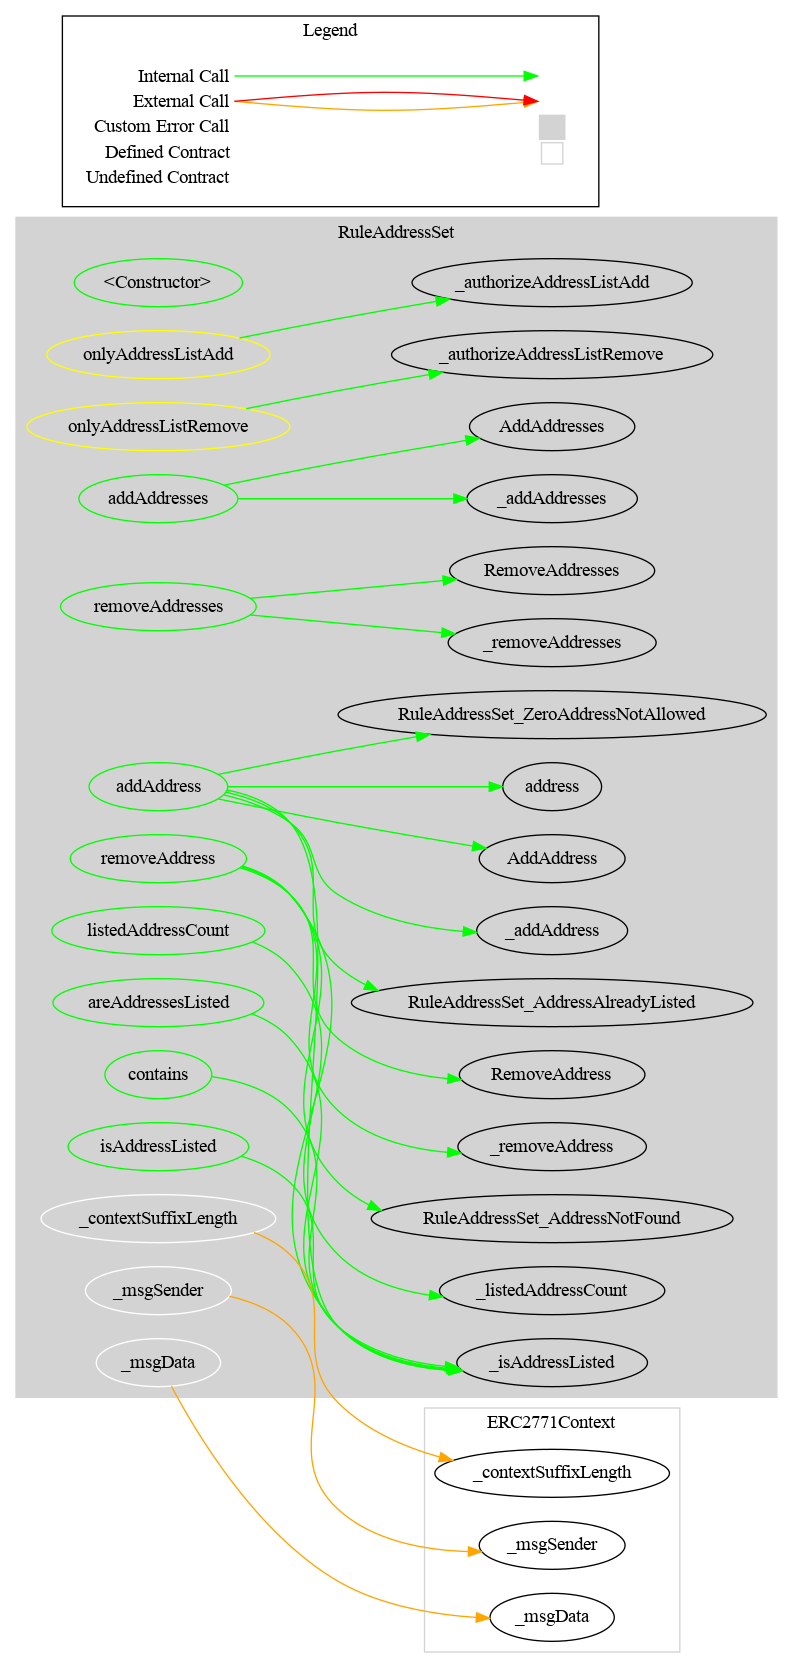
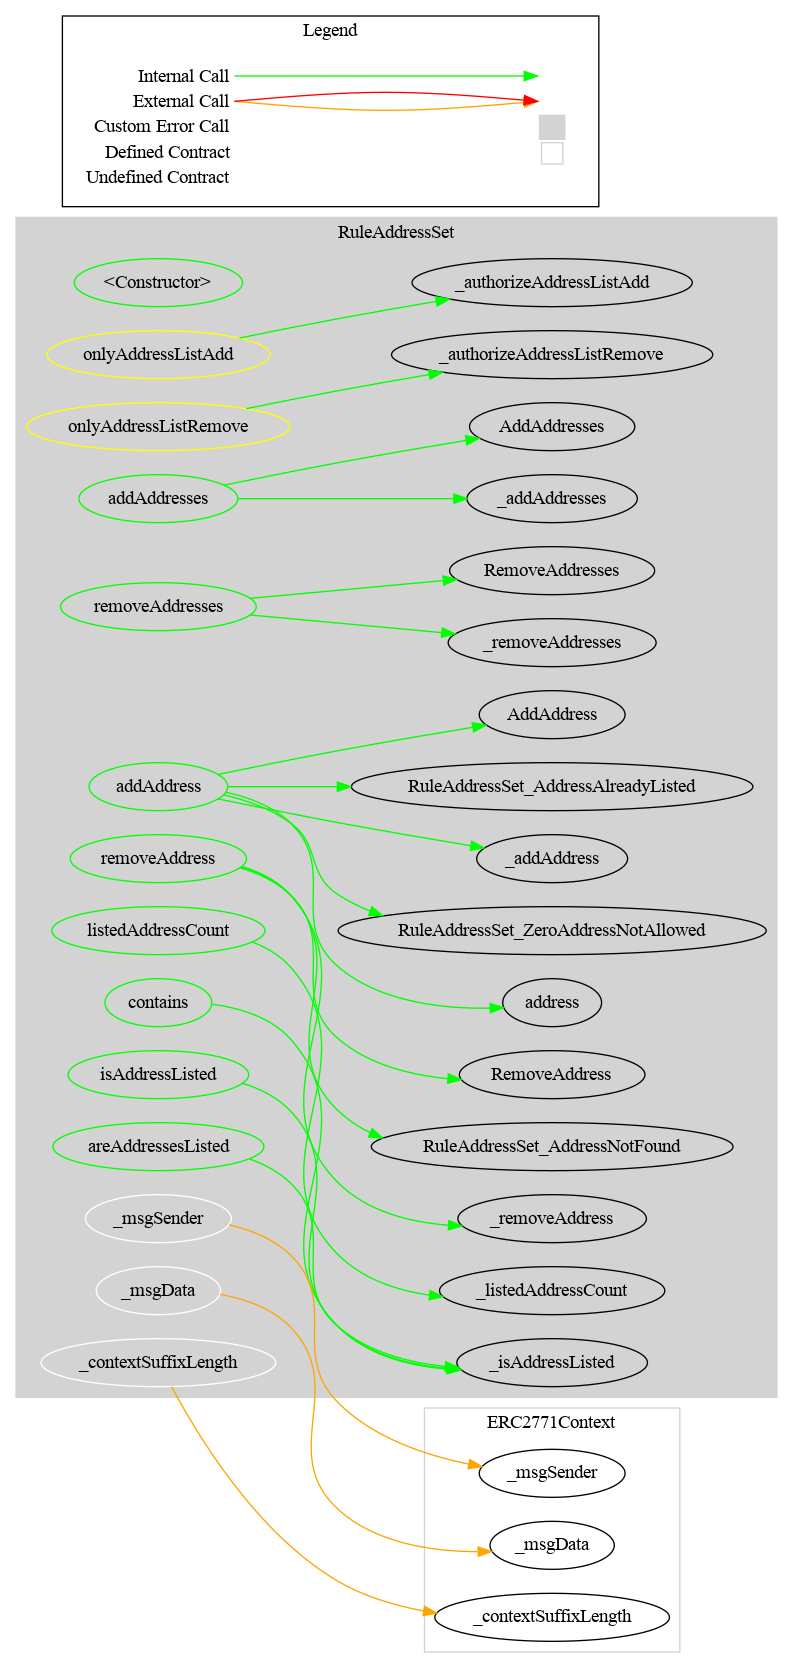
update surya doc

diff --git a/doc/surya/surya_report/surya_report_VirtualHookOverrideHarnesses.sol.md b/doc/surya/surya_report/surya_report_VirtualHookOverrideHarnesses.sol.md
@@ -1,0 +1,50 @@
+## Sūrya's Description Report
+
+### Files Description Table
+
+
+|  File Name  |  SHA-1 Hash  |
+|-------------|--------------|
+| ./mocks/harness/VirtualHookOverrideHarnesses.sol | 6854c56840f080b9c00452015062e74992314b8b |
+
+
+### Contracts Description Table
+
+
+|  Contract  |         Type        |       Bases      |                  |                 |
+|:----------:|:-------------------:|:----------------:|:----------------:|:---------------:|
+|     └      |  **Function Name**  |  **Visibility**  |  **Mutability**  |  **Modifiers**  |
+||||||
+| **ConditionalTransferLightCustomExecutorHarness** | Implementation | RuleConditionalTransferLight |||
+| └ | <Constructor> | Public ❗ | 🛑  | RuleConditionalTransferLight |
+| └ | _authorizeTransferExecution | Internal 🔒 |   | |
+| └ | approveTransfer | Public ❗ | 🛑  |NO❗ |
+| └ | transferred | Public ❗ | 🛑  |NO❗ |
+||||||
+| **MaxTotalSupplyCappedSetterHarness** | Implementation | RuleMaxTotalSupply |||
+| └ | <Constructor> | Public ❗ | 🛑  | RuleMaxTotalSupply |
+| └ | setMaxTotalSupply | Public ❗ | 🛑  |NO❗ |
+||||||
+| **IdentityRegistryPinnedHarness** | Implementation | RuleIdentityRegistry |||
+| └ | <Constructor> | Public ❗ | 🛑  | RuleIdentityRegistry |
+| └ | setIdentityRegistry | Public ❗ | 🛑  |NO❗ |
+||||||
+| **ERC2980SelfWhitelistBlockHarness** | Implementation | RuleERC2980 |||
+| └ | <Constructor> | Public ❗ | 🛑  | RuleERC2980 |
+| └ | addWhitelistAddress | Public ❗ | 🛑  |NO❗ |
+||||||
+| **BlacklistQuarantineHarness** | Implementation | RuleBlacklist |||
+| └ | <Constructor> | Public ❗ | 🛑  | RuleBlacklist |
+| └ | _detectTransferRestriction | Internal 🔒 |   | |
+| └ | _detectTransferRestrictionFrom | Internal 🔒 |   | |
+| └ | canTransfer | Public ❗ |   |NO❗ |
+| └ | canTransfer | Public ❗ |   |NO❗ |
+| └ | addAddress | Public ❗ | 🛑  |NO❗ |
+
+
+### Legend
+
+|  Symbol  |  Meaning  |
+|:--------:|-----------|
+|    🛑    | Function can modify state |
+|    💵    | Function is payable |

diff --git a/doc/surya/surya_report/surya_report_RuleMaxTotalSupplyBase.sol.md b/doc/surya/surya_report/surya_report_RuleMaxTotalSupplyBase.sol.md
@@ -5,7 +5,7 @@
 
 |  File Name  |  SHA-1 Hash  |
 |-------------|--------------|
-| ./rules/validation/abstract/base/RuleMaxTotalSupplyBase.sol | 845a7ae5da778000d497759311cada4d802ff887 |
+| ./rules/validation/abstract/base/RuleMaxTotalSupplyBase.sol | a1523757df3daa412db98c73f26cd87ae5acdf41 |
 
 
 ### Contracts Description Table
@@ -15,7 +15,7 @@
 |:----------:|:-------------------:|:----------------:|:----------------:|:---------------:|
 |     └      |  **Function Name**  |  **Visibility**  |  **Mutability**  |  **Modifiers**  |
 ||||||
-| **RuleMaxTotalSupplyBase** | Implementation | RuleTransferValidation, RuleMaxTotalSupplyInvariantStorage |||
+| **RuleMaxTotalSupplyBase** | Implementation | RuleTransferValidation, TokenSupplyReader, RuleMaxTotalSupplyInvariantStorage |||
 | └ | <Constructor> | Public ❗ | 🛑  |NO❗ |
 | └ | canReturnTransferRestrictionCode | External ❗ |   |NO❗ |
 | └ | setMaxTotalSupply | Public ❗ | 🛑  | onlyMaxTotalSupplyManager |
@@ -24,8 +24,10 @@
 | └ | transferred | Public ❗ |   |NO❗ |
 | └ | messageForTransferRestriction | Public ❗ |   |NO❗ |
 | └ | _authorizeMaxTotalSupplyManager | Internal 🔒 |   | |
+| └ | _setMaxTotalSupply | Internal 🔒 | 🛑  | |
+| └ | _setTokenContract | Internal 🔒 | 🛑  | |
 | └ | _validateTokenContract | Internal 🔒 |   | |
-| └ | _currentSupply | Internal 🔒 |   | |
+| └ | _supplyToken | Internal 🔒 |   | |
 | └ | _detectTransferRestriction | Internal 🔒 |   | |
 | └ | _detectTransferRestrictionFrom | Internal 🔒 |   | |
 | └ | _transferred | Internal 🔒 |   | |

diff --git a/doc/surya/surya_report/surya_report_RuleChainlinkPoRBase.sol.md b/doc/surya/surya_report/surya_report_RuleChainlinkPoRBase.sol.md
@@ -5,7 +5,7 @@
 
 |  File Name  |  SHA-1 Hash  |
 |-------------|--------------|
-| ./rules/validation/abstract/base/RuleChainlinkPoRBase.sol | 7191fb609d8e2b6551f97bf80c24c3afc91bf268 |
+| ./rules/validation/abstract/base/RuleChainlinkPoRBase.sol | 5fe5edfc548dda041e38a7864ca0979b314b09a1 |
 
 
 ### Contracts Description Table
@@ -15,7 +15,7 @@
 |:----------:|:-------------------:|:----------------:|:----------------:|:---------------:|
 |     └      |  **Function Name**  |  **Visibility**  |  **Mutability**  |  **Modifiers**  |
 ||||||
-| **RuleChainlinkPoRBase** | Implementation | RuleTransferValidation, RuleChainlinkPoRInvariantStorage |||
+| **RuleChainlinkPoRBase** | Implementation | RuleTransferValidation, TokenSupplyReader, RuleChainlinkPoRInvariantStorage |||
 | └ | <Constructor> | Public ❗ | 🛑  |NO❗ |
 | └ | canReturnTransferRestrictionCode | External ❗ |   |NO❗ |
 | └ | setReservesFeed | Public ❗ | 🛑  | onlyChainlinkPoRManager |
@@ -31,7 +31,7 @@
 | └ | _setMaxStalenessSeconds | Internal 🔒 | 🛑  | |
 | └ | _authorizeChainlinkPoRManager | Internal 🔒 |   | |
 | └ | _maxBackedSupply | Internal 🔒 |   | |
-| └ | _currentSupply | Internal 🔒 |   | |
+| └ | _supplyToken | Internal 🔒 |   | |
 | └ | _scaleReserve | Internal 🔒 |   | |
 | └ | _detectTransferRestriction | Internal 🔒 |   | |
 | └ | _detectTransferRestrictionFrom | Internal 🔒 |   | |

diff --git a/doc/surya/surya_report/surya_report_RuleWhitelistShared.sol.md b/doc/surya/surya_report/surya_report_RuleWhitelistShared.sol.md
@@ -5,7 +5,7 @@
 
 |  File Name  |  SHA-1 Hash  |
 |-------------|--------------|
-| ./rules/validation/abstract/core/RuleWhitelistShared.sol | fb4d9b88fef733bf885a246ba9e4d13d65134dfd |
+| ./rules/validation/abstract/core/RuleWhitelistShared.sol | 051cbbbba471e37946c2d7ea8c65c8219c317cf4 |
 
 
 ### Contracts Description Table
@@ -18,13 +18,16 @@
 | **RuleWhitelistShared** | Implementation | RuleNFTAdapter, RuleWhitelistInvariantStorage |||
 | └ | canReturnTransferRestrictionCode | External ❗ |   |NO❗ |
 | └ | messageForTransferRestriction | External ❗ |   |NO❗ |
+| └ | setCheckSpender | Public ❗ | 🛑  | onlyCheckSpenderManager |
 | └ | setAllowMint | Public ❗ | 🛑  | onlyMintBurnManager |
 | └ | setAllowBurn | Public ❗ | 🛑  | onlyMintBurnManager |
 | └ | transferred | Public ❗ |   |NO❗ |
 | └ | transferred | Public ❗ |   |NO❗ |
+| └ | _setCheckSpender | Internal 🔒 | 🛑  | |
 | └ | _setAllowMintBurn | Internal 🔒 | 🛑  | |
 | └ | _detectMintBurnRestriction | Internal 🔒 |   | |
 | └ | _authorizeMintBurnManager | Internal 🔒 |   | |
+| └ | _authorizeCheckSpenderManager | Internal 🔒 |   | |
 | └ | _transferred | Internal 🔒 |   | |
 | └ | _transferredFrom | Internal 🔒 |   | |
 

diff --git a/doc/surya/surya_report/surya_report_TokenSupplyReader.sol.md b/doc/surya/surya_report/surya_report_TokenSupplyReader.sol.md
@@ -5,7 +5,7 @@
 
 |  File Name  |  SHA-1 Hash  |
 |-------------|--------------|
-| ./rules/validation/abstract/base/RuleWhitelistBase.sol | 7cb62bf29323cbf092a1f0787d6b7cf6e929d41b |
+| ./rules/validation/abstract/core/TokenSupplyReader.sol | 71e98f5c3b1bb9a8662453e287c915cab73df29a |
 
 
 ### Contracts Description Table
@@ -15,12 +15,10 @@
 |:----------:|:-------------------:|:----------------:|:----------------:|:---------------:|
 |     └      |  **Function Name**  |  **Visibility**  |  **Mutability**  |  **Modifiers**  |
 ||||||
-| **RuleWhitelistBase** | Implementation | RuleAddressSet, RuleWhitelistShared, IIdentityRegistryVerified |||
-| └ | <Constructor> | Public ❗ | 🛑  | RuleAddressSet |
-| └ | isVerified | Public ❗ |   |NO❗ |
-| └ | supportsInterface | Public ❗ |   |NO❗ |
-| └ | _detectTransferRestriction | Internal 🔒 |   | |
-| └ | _detectTransferRestrictionFrom | Internal 🔒 |   | |
+| **TokenSupplyReader** | Implementation |  |||
+| └ | _supplyToken | Internal 🔒 |   | |
+| └ | _currentSupply | Internal 🔒 |   | |
+| └ | _probeTotalSupplyCallable | Internal 🔒 |   | |
 
 
 ### Legend

diff --git a/doc/surya/surya_report/surya_report_AddressSetBatchLib.sol.md b/doc/surya/surya_report/surya_report_AddressSetBatchLib.sol.md
@@ -5,7 +5,7 @@
 
 |  File Name  |  SHA-1 Hash  |
 |-------------|--------------|
-| ./rules/validation/abstract/base/RuleWhitelistBase.sol | 7cb62bf29323cbf092a1f0787d6b7cf6e929d41b |
+| ./rules/validation/abstract/RuleAddressSet/AddressSetBatchLib.sol | 1b09ddf8af7c9b32fc572b329b1786122a132dad |
 
 
 ### Contracts Description Table
@@ -15,12 +15,9 @@
 |:----------:|:-------------------:|:----------------:|:----------------:|:---------------:|
 |     └      |  **Function Name**  |  **Visibility**  |  **Mutability**  |  **Modifiers**  |
 ||||||
-| **RuleWhitelistBase** | Implementation | RuleAddressSet, RuleWhitelistShared, IIdentityRegistryVerified |||
-| └ | <Constructor> | Public ❗ | 🛑  | RuleAddressSet |
-| └ | isVerified | Public ❗ |   |NO❗ |
-| └ | supportsInterface | Public ❗ |   |NO❗ |
-| └ | _detectTransferRestriction | Internal 🔒 |   | |
-| └ | _detectTransferRestrictionFrom | Internal 🔒 |   | |
+| **AddressSetBatchLib** | Library |  |||
+| └ | addBatch | Internal 🔒 | 🛑  | |
+| └ | removeBatch | Internal 🔒 | 🛑  | |
 
 
 ### Legend

diff --git a/doc/surya/surya_report/surya_report_SanctionsListDelegationHarness.sol.md b/doc/surya/surya_report/surya_report_SanctionsListDelegationHarness.sol.md
@@ -5,7 +5,7 @@
 
 |  File Name  |  SHA-1 Hash  |
 |-------------|--------------|
-| ./rules/validation/abstract/base/RuleWhitelistBase.sol | 7cb62bf29323cbf092a1f0787d6b7cf6e929d41b |
+| ./mocks/harness/SanctionsListDelegationHarness.sol | d44cf59a92ad9c1bf119269b233690ef67ceff55 |
 
 
 ### Contracts Description Table
@@ -15,12 +15,9 @@
 |:----------:|:-------------------:|:----------------:|:----------------:|:---------------:|
 |     └      |  **Function Name**  |  **Visibility**  |  **Mutability**  |  **Modifiers**  |
 ||||||
-| **RuleWhitelistBase** | Implementation | RuleAddressSet, RuleWhitelistShared, IIdentityRegistryVerified |||
-| └ | <Constructor> | Public ❗ | 🛑  | RuleAddressSet |
-| └ | isVerified | Public ❗ |   |NO❗ |
-| └ | supportsInterface | Public ❗ |   |NO❗ |
+| **SanctionsListExtraCheckHarness** | Implementation | RuleSanctionsList |||
+| └ | <Constructor> | Public ❗ | 🛑  | RuleSanctionsList |
 | └ | _detectTransferRestriction | Internal 🔒 |   | |
-| └ | _detectTransferRestrictionFrom | Internal 🔒 |   | |
 
 
 ### Legend

diff --git a/doc/surya/surya_report/surya_report_RuleWhitelistWrapperBase.sol.md b/doc/surya/surya_report/surya_report_RuleWhitelistWrapperBase.sol.md
@@ -5,7 +5,7 @@
 
 |  File Name  |  SHA-1 Hash  |
 |-------------|--------------|
-| ./rules/validation/abstract/base/RuleWhitelistWrapperBase.sol | afd89e8447fb78d04a958d4cd9ab4cc99c2ed3d2 |
+| ./rules/validation/abstract/base/RuleWhitelistWrapperBase.sol | bb3b6454d4316c7a7bcc82e6e599ffc45bacdd7a |
 
 
 ### Contracts Description Table
@@ -17,11 +17,8 @@
 ||||||
 | **RuleWhitelistWrapperBase** | Implementation | RulesManagementModule, MetaTxModuleStandalone, RuleWhitelistShared, IIdentityRegistryVerified |||
 | └ | <Constructor> | Public ❗ | 🛑  | MetaTxModuleStandalone |
-| └ | setCheckSpender | Public ❗ | 🛑  | onlyCheckSpenderManager |
 | └ | supportsInterface | Public ❗ |   |NO❗ |
 | └ | isVerified | Public ❗ |   |NO❗ |
-| └ | _setCheckSpender | Internal 🔒 | 🛑  | |
-| └ | _authorizeCheckSpenderManager | Internal 🔒 |   | |
 | └ | _detectTransferRestriction | Internal 🔒 |   | |
 | └ | _isListedInAnyChild | Internal 🔒 |   | |
 | └ | _detectTransferRestrictionFrom | Internal 🔒 |   | |

diff --git a/doc/surya/surya_report/surya_report_RuleERC2980Internal.sol.md b/doc/surya/surya_report/surya_report_RuleERC2980Internal.sol.md
@@ -5,7 +5,7 @@
 
 |  File Name  |  SHA-1 Hash  |
 |-------------|--------------|
-| ./rules/validation/abstract/RuleERC2980/RuleERC2980Internal.sol | 98c16e072b51952238cf3f8ad384b5991310ea59 |
+| ./rules/validation/abstract/RuleERC2980/RuleERC2980Internal.sol | 5566b1b8c48c5f5d89b01d7883f00743bd7bf8f2 |
 
 
 ### Contracts Description Table
@@ -24,6 +24,7 @@
 | └ | _removeFrozenlistAddresses | Internal 🔒 | 🛑  | |
 | └ | _addFrozenlistAddress | Internal 🔒 | 🛑  | |
 | └ | _removeFrozenlistAddress | Internal 🔒 | 🛑  | |
+| └ | _requireNotZeroAddress | Internal 🔒 |   | |
 | └ | _isWhitelisted | Internal 🔒 |   | |
 | └ | _whitelistCount | Internal 🔒 |   | |
 | └ | _isFrozen | Internal 🔒 |   | |

diff --git a/doc/surya/surya_report/surya_report_RuleAddressSetInternal.sol.md b/doc/surya/surya_report/surya_report_RuleAddressSetInternal.sol.md
@@ -5,7 +5,7 @@
 
 |  File Name  |  SHA-1 Hash  |
 |-------------|--------------|
-| ./rules/validation/abstract/RuleAddressSet/RuleAddressSetInternal.sol | 50d98cbdef19b7319538dceee8056fda909cbced |
+| ./rules/validation/abstract/RuleAddressSet/RuleAddressSetInternal.sol | eddc744d1e6c3c8a68aa267774d77536d986146f |
 
 
 ### Contracts Description Table
@@ -17,6 +17,7 @@
 ||||||
 | **RuleAddressSetInternal** | Implementation | RuleAddressSetInvariantStorage |||
 | └ | _addAddresses | Internal 🔒 | 🛑  | |
+| └ | _requireNotZeroAddress | Internal 🔒 |   | |
 | └ | _removeAddresses | Internal 🔒 | 🛑  | |
 | └ | _addAddress | Internal 🔒 | 🛑  | |
 | └ | _removeAddress | Internal 🔒 | 🛑  | |

diff --git a/doc/surya/surya_report/surya_report_RuleERC2980InvariantStorage.sol.md b/doc/surya/surya_report/surya_report_RuleERC2980InvariantStorage.sol.md
@@ -5,7 +5,7 @@
 
 |  File Name  |  SHA-1 Hash  |
 |-------------|--------------|
-| ./rules/validation/abstract/RuleERC2980/invariantStorage/RuleERC2980InvariantStorage.sol | 1bd837aa10448105529170e9a0e15802050cb64d |
+| ./rules/validation/abstract/RuleERC2980/invariantStorage/RuleERC2980InvariantStorage.sol | 077f022e41959ca712342763566a630c437e514a |
 
 
 ### Contracts Description Table

diff --git a/doc/surya/surya_report/surya_report_RuleChainlinkPoRInvariantStorage.sol.md b/doc/surya/surya_report/surya_report_RuleChainlinkPoRInvariantStorage.sol.md
@@ -5,7 +5,7 @@
 
 |  File Name  |  SHA-1 Hash  |
 |-------------|--------------|
-| ./rules/validation/abstract/invariant/RuleChainlinkPoRInvariantStorage.sol | d1ed16417cdf50b4e1bfcf2ab53272ed5b107280 |
+| ./rules/validation/abstract/invariant/RuleChainlinkPoRInvariantStorage.sol | 64a0b4372644a3b79b325839cdd9897f5c3ad9f0 |
 
 
 ### Contracts Description Table
